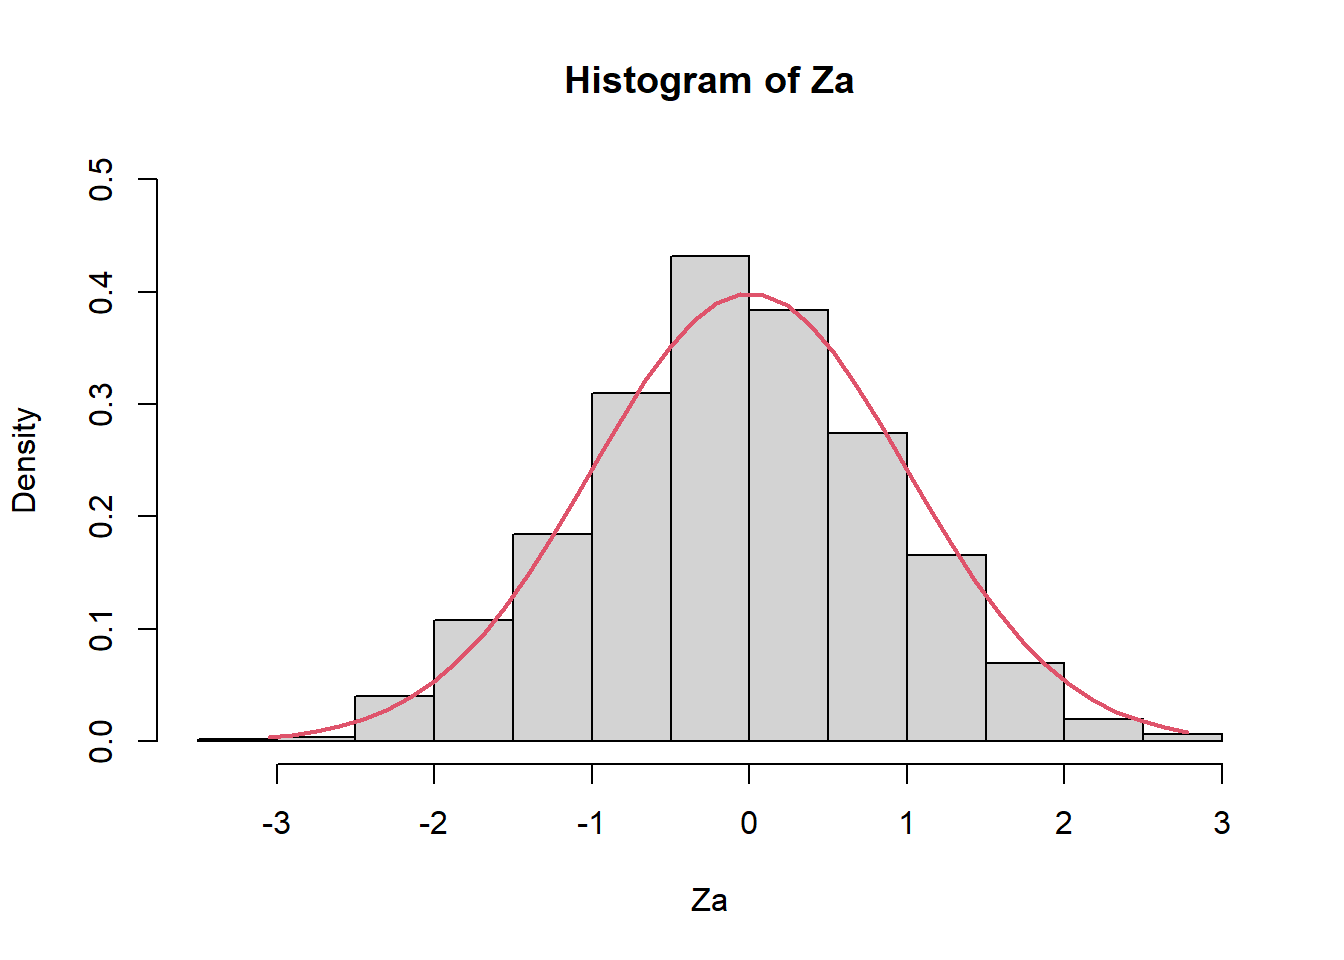
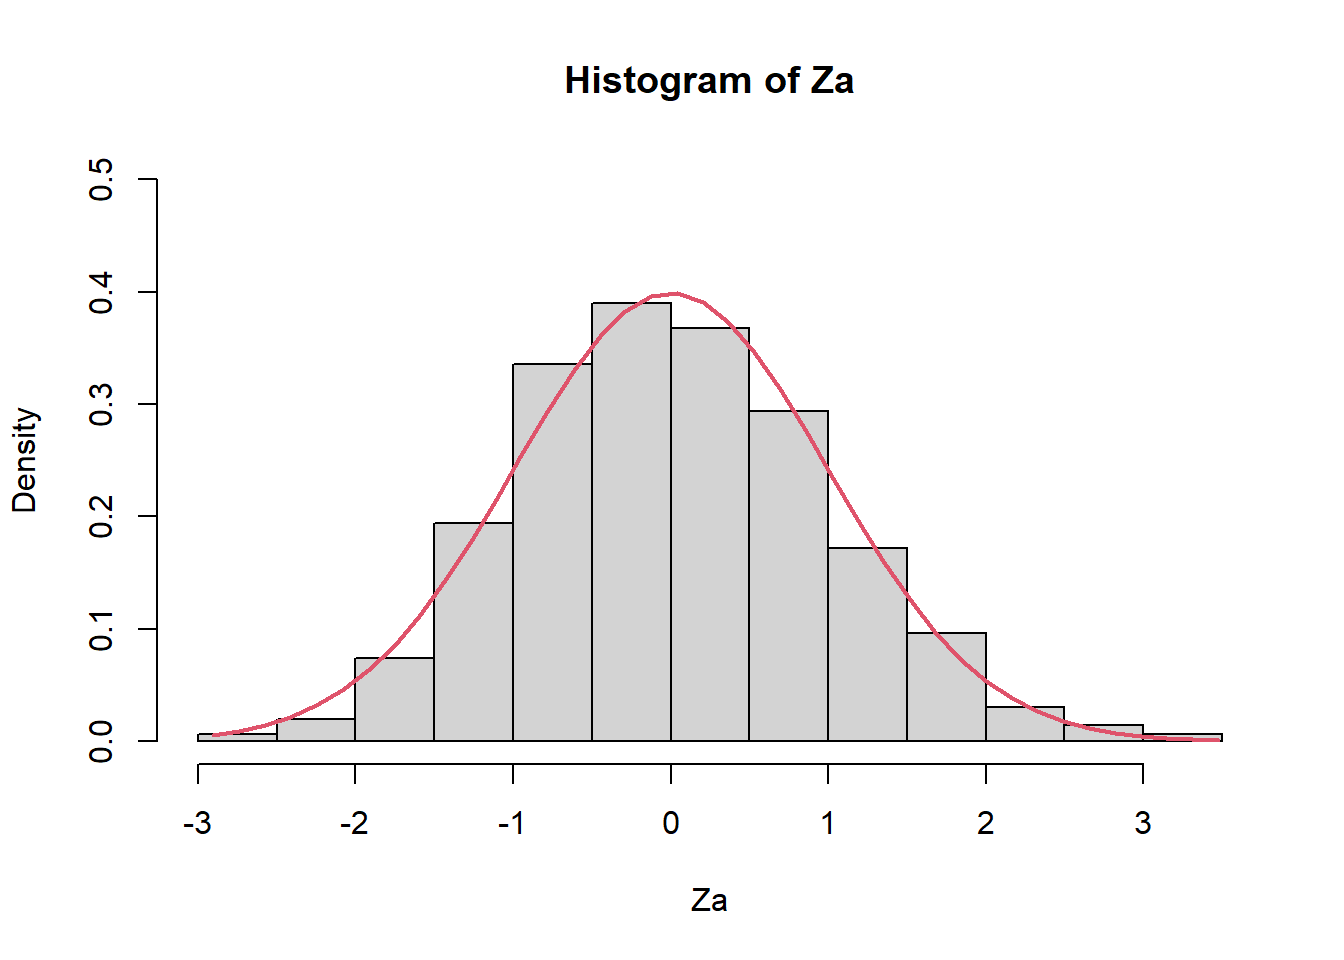
lab2

diff --git a/lab02.html b/lab02.html
@@ -355,11 +355,11 @@ window.Quarto = {
 </div>
 <div class="sourceCode cell-code" id="cb3"><pre class="sourceCode r code-with-copy"><code class="sourceCode r"><span id="cb3-1"><a href="#cb3-1" aria-hidden="true" tabindex="-1"></a><span class="fu">mean</span>(media_X)</span></code><button title="Copiar al portapapeles" class="code-copy-button"><i class="bi"></i></button></pre></div>
 <div class="cell-output cell-output-stdout">
-<pre><code>[1] 0.5060474</code></pre>
+<pre><code>[1] 0.5032173</code></pre>
 </div>
 <div class="sourceCode cell-code" id="cb5"><pre class="sourceCode r code-with-copy"><code class="sourceCode r"><span id="cb5-1"><a href="#cb5-1" aria-hidden="true" tabindex="-1"></a><span class="fu">var</span>(media_X)</span></code><button title="Copiar al portapapeles" class="code-copy-button"><i class="bi"></i></button></pre></div>
 <div class="cell-output cell-output-stdout">
-<pre><code>[1] 0.01203256</code></pre>
+<pre><code>[1] 0.01344664</code></pre>
 </div>
 </div>
 <p>Observe que teóricamente <span class="math inline">\(E(\bar{X})=0.5\)</span> y <span class="math inline">\(Var(\bar{X})=\frac{\beta^2}{n}=\frac{0.5^2}{20}=0.0125\)</span>. El TLC nos garantiza que <span class="math display">\[Z=\frac{\bar{X}-\mu}{\sigma/\sqrt{n}} \overset{d}{\rightarrow} N(0,1).\]</span> Es decir, <span class="math inline">\(Z\)</span> se aproxima cada vez a la normal estándar cuando <span class="math inline">\(n\rightarrow \infty\)</span>. Por ejemplo, con solo <span class="math inline">\(n=20\)</span>, tenemos</p>
@@ -377,11 +377,11 @@ window.Quarto = {
 </div>
 <div class="sourceCode cell-code" id="cb8"><pre class="sourceCode r code-with-copy"><code class="sourceCode r"><span id="cb8-1"><a href="#cb8-1" aria-hidden="true" tabindex="-1"></a><span class="fu">mean</span>(Z)</span></code><button title="Copiar al portapapeles" class="code-copy-button"><i class="bi"></i></button></pre></div>
 <div class="cell-output cell-output-stdout">
-<pre><code>[1] 0.05408972</code></pre>
+<pre><code>[1] 0.02877676</code></pre>
 </div>
 <div class="sourceCode cell-code" id="cb10"><pre class="sourceCode r code-with-copy"><code class="sourceCode r"><span id="cb10-1"><a href="#cb10-1" aria-hidden="true" tabindex="-1"></a><span class="fu">var</span>(Z)</span></code><button title="Copiar al portapapeles" class="code-copy-button"><i class="bi"></i></button></pre></div>
 <div class="cell-output cell-output-stdout">
-<pre><code>[1] 0.9626045</code></pre>
+<pre><code>[1] 1.075731</code></pre>
 </div>
 </div>
 <p>De la misma forma, puedo calcular</p>
@@ -403,11 +403,11 @@ Z_a=n^{\frac{1}{2}}(\bar{X}-\mu) \overset{d}{\rightarrow} N(0,\sigma^2)
 </div>
 <div class="sourceCode cell-code" id="cb13"><pre class="sourceCode r code-with-copy"><code class="sourceCode r"><span id="cb13-1"><a href="#cb13-1" aria-hidden="true" tabindex="-1"></a><span class="fu">mean</span>(Za)</span></code><button title="Copiar al portapapeles" class="code-copy-button"><i class="bi"></i></button></pre></div>
 <div class="cell-output cell-output-stdout">
-<pre><code>[1] 0.02704486</code></pre>
+<pre><code>[1] 0.01438838</code></pre>
 </div>
 <div class="sourceCode cell-code" id="cb15"><pre class="sourceCode r code-with-copy"><code class="sourceCode r"><span id="cb15-1"><a href="#cb15-1" aria-hidden="true" tabindex="-1"></a><span class="fu">var</span>(Za)</span></code><button title="Copiar al portapapeles" class="code-copy-button"><i class="bi"></i></button></pre></div>
 <div class="cell-output cell-output-stdout">
-<pre><code>[1] 0.2406511</code></pre>
+<pre><code>[1] 0.2689328</code></pre>
 </div>
 </div>
 </section>
@@ -418,12 +418,12 @@ Z_a=n^{\frac{1}{2}}(\bar{X}-\mu) \overset{d}{\rightarrow} N(0,\sigma^2)
 <span id="cb17-2"><a href="#cb17-2" aria-hidden="true" tabindex="-1"></a><span class="fu">head</span>(<span class="fu">cbind</span>(media_X,inv_media_X))</span></code><button title="Copiar al portapapeles" class="code-copy-button"><i class="bi"></i></button></pre></div>
 <div class="cell-output cell-output-stdout">
 <pre><code>       media_X inv_media_X
-[1,] 0.6659094    1.501706
-[2,] 0.4576343    2.185151
-[3,] 0.4692628    2.131002
-[4,] 0.4596611    2.175516
-[5,] 0.3846754    2.599594
-[6,] 0.5363461    1.864468</code></pre>
+[1,] 0.4080875    2.450455
+[2,] 0.3615462    2.765899
+[3,] 0.6953105    1.438206
+[4,] 0.3396940    2.943826
+[5,] 0.4805779    2.080828
+[6,] 0.4995975    2.001611</code></pre>
 </div>
 <div class="sourceCode cell-code" id="cb19"><pre class="sourceCode r code-with-copy"><code class="sourceCode r"><span id="cb19-1"><a href="#cb19-1" aria-hidden="true" tabindex="-1"></a><span class="fu">hist</span>(inv_media_X)</span></code><button title="Copiar al portapapeles" class="code-copy-button"><i class="bi"></i></button></pre></div>
 <div class="cell-output-display">
@@ -435,11 +435,11 @@ Z_a=n^{\frac{1}{2}}(\bar{X}-\mu) \overset{d}{\rightarrow} N(0,\sigma^2)
 </div>
 <div class="sourceCode cell-code" id="cb20"><pre class="sourceCode r code-with-copy"><code class="sourceCode r"><span id="cb20-1"><a href="#cb20-1" aria-hidden="true" tabindex="-1"></a><span class="fu">mean</span>(media_X)</span></code><button title="Copiar al portapapeles" class="code-copy-button"><i class="bi"></i></button></pre></div>
 <div class="cell-output cell-output-stdout">
-<pre><code>[1] 0.5060474</code></pre>
+<pre><code>[1] 0.5032173</code></pre>
 </div>
 <div class="sourceCode cell-code" id="cb22"><pre class="sourceCode r code-with-copy"><code class="sourceCode r"><span id="cb22-1"><a href="#cb22-1" aria-hidden="true" tabindex="-1"></a><span class="fu">var</span>(media_X)</span></code><button title="Copiar al portapapeles" class="code-copy-button"><i class="bi"></i></button></pre></div>
 <div class="cell-output cell-output-stdout">
-<pre><code>[1] 0.01203256</code></pre>
+<pre><code>[1] 0.01344664</code></pre>
 </div>
 </div>
 <p>Usando el resultado con el Método Delta (diapositiva 11 de la clase 8).</p>
@@ -458,11 +458,11 @@ Z_a=n^{\frac{1}{2}}(\bar{X}-\mu) \overset{d}{\rightarrow} N(0,\sigma^2)
 </div>
 <div class="sourceCode cell-code" id="cb25"><pre class="sourceCode r code-with-copy"><code class="sourceCode r"><span id="cb25-1"><a href="#cb25-1" aria-hidden="true" tabindex="-1"></a><span class="fu">mean</span>(Za)</span></code><button title="Copiar al portapapeles" class="code-copy-button"><i class="bi"></i></button></pre></div>
 <div class="cell-output cell-output-stdout">
-<pre><code>[1] 0.3187371</code></pre>
+<pre><code>[1] 0.4256119</code></pre>
 </div>
 <div class="sourceCode cell-code" id="cb27"><pre class="sourceCode r code-with-copy"><code class="sourceCode r"><span id="cb27-1"><a href="#cb27-1" aria-hidden="true" tabindex="-1"></a><span class="fu">var</span>(Za)</span></code><button title="Copiar al portapapeles" class="code-copy-button"><i class="bi"></i></button></pre></div>
 <div class="cell-output cell-output-stdout">
-<pre><code>[1] 4.256698</code></pre>
+<pre><code>[1] 4.906116</code></pre>
 </div>
 </div>
 </section>
@@ -492,11 +492,11 @@ Z_a=n^{\frac{1}{2}}(\bar{X}-\mu) \overset{d}{\rightarrow} N(0,\sigma^2)
 </div>
 <div class="sourceCode cell-code" id="cb31"><pre class="sourceCode r code-with-copy"><code class="sourceCode r"><span id="cb31-1"><a href="#cb31-1" aria-hidden="true" tabindex="-1"></a><span class="fu">mean</span>(Za)</span></code><button title="Copiar al portapapeles" class="code-copy-button"><i class="bi"></i></button></pre></div>
 <div class="cell-output cell-output-stdout">
-<pre><code>[1] 0.1711034</code></pre>
+<pre><code>[1] 0.1282568</code></pre>
 </div>
 <div class="sourceCode cell-code" id="cb33"><pre class="sourceCode r code-with-copy"><code class="sourceCode r"><span id="cb33-1"><a href="#cb33-1" aria-hidden="true" tabindex="-1"></a><span class="fu">var</span>(Za)</span></code><button title="Copiar al portapapeles" class="code-copy-button"><i class="bi"></i></button></pre></div>
 <div class="cell-output cell-output-stdout">
-<pre><code>[1] 4.303778</code></pre>
+<pre><code>[1] 4.219342</code></pre>
 </div>
 </div>
 </section>
@@ -526,11 +526,11 @@ Z_a=n^{\frac{1}{2}}(\bar{X}-\mu) \overset{d}{\rightarrow} N(0,\sigma^2)
 </div>
 <div class="sourceCode cell-code" id="cb37"><pre class="sourceCode r code-with-copy"><code class="sourceCode r"><span id="cb37-1"><a href="#cb37-1" aria-hidden="true" tabindex="-1"></a><span class="fu">mean</span>(Za)</span></code><button title="Copiar al portapapeles" class="code-copy-button"><i class="bi"></i></button></pre></div>
 <div class="cell-output cell-output-stdout">
-<pre><code>[1] 0.113894</code></pre>
+<pre><code>[1] 0.1638005</code></pre>
 </div>
 <div class="sourceCode cell-code" id="cb39"><pre class="sourceCode r code-with-copy"><code class="sourceCode r"><span id="cb39-1"><a href="#cb39-1" aria-hidden="true" tabindex="-1"></a><span class="fu">var</span>(Za)</span></code><button title="Copiar al portapapeles" class="code-copy-button"><i class="bi"></i></button></pre></div>
 <div class="cell-output cell-output-stdout">
-<pre><code>[1] 3.942703</code></pre>
+<pre><code>[1] 4.029942</code></pre>
 </div>
 </div>
 </section>
@@ -566,11 +566,11 @@ Z_a=n^{\frac{1}{2}}(\bar{X}-\mu) \overset{d}{\rightarrow} N(0,\sigma^2)
 </div>
 <div class="sourceCode cell-code" id="cb43"><pre class="sourceCode r code-with-copy"><code class="sourceCode r"><span id="cb43-1"><a href="#cb43-1" aria-hidden="true" tabindex="-1"></a><span class="fu">mean</span>(sd_MV_X)</span></code><button title="Copiar al portapapeles" class="code-copy-button"><i class="bi"></i></button></pre></div>
 <div class="cell-output cell-output-stdout">
-<pre><code>[1] 1.397972</code></pre>
+<pre><code>[1] 1.418476</code></pre>
 </div>
 <div class="sourceCode cell-code" id="cb45"><pre class="sourceCode r code-with-copy"><code class="sourceCode r"><span id="cb45-1"><a href="#cb45-1" aria-hidden="true" tabindex="-1"></a><span class="fu">var</span>(sd_MV_X)</span></code><button title="Copiar al portapapeles" class="code-copy-button"><i class="bi"></i></button></pre></div>
 <div class="cell-output cell-output-stdout">
-<pre><code>[1] 0.03036017</code></pre>
+<pre><code>[1] 0.0322945</code></pre>
 </div>
 </div>
 <p>Sabemos que para muestras grandes, la distirbución de <span class="math inline">\(\hat{\sigma}\)</span> converge a una distirbución normal con media <span class="math inline">\(\sigma=\sqrt{2} \approx 1.41\)</span> y variancia <span class="math inline">\(1/[I(\sigma)]=\left(\frac{2n}{ \sigma^2}\right)^{-1}=\left( \frac{2 \cdot 30}{2} \right)^{-1} =1/30\approx 0.0334\)</span>.</p>
@@ -590,11 +590,11 @@ Z_a=n^{\frac{1}{2}}(\bar{X}-\mu) \overset{d}{\rightarrow} N(0,\sigma^2)
 </div>
 <div class="sourceCode cell-code" id="cb48"><pre class="sourceCode r code-with-copy"><code class="sourceCode r"><span id="cb48-1"><a href="#cb48-1" aria-hidden="true" tabindex="-1"></a><span class="fu">mean</span>(Za)</span></code><button title="Copiar al portapapeles" class="code-copy-button"><i class="bi"></i></button></pre></div>
 <div class="cell-output cell-output-stdout">
-<pre><code>[1] -0.08895599</code></pre>
+<pre><code>[1] 0.02334704</code></pre>
 </div>
 <div class="sourceCode cell-code" id="cb50"><pre class="sourceCode r code-with-copy"><code class="sourceCode r"><span id="cb50-1"><a href="#cb50-1" aria-hidden="true" tabindex="-1"></a><span class="fu">var</span>(Za)</span></code><button title="Copiar al portapapeles" class="code-copy-button"><i class="bi"></i></button></pre></div>
 <div class="cell-output cell-output-stdout">
-<pre><code>[1] 0.9108052</code></pre>
+<pre><code>[1] 0.968835</code></pre>
 </div>
 </div>
 <section id="visualización-variando-n" class="level2" data-number="2.1">
@@ -606,13 +606,13 @@ Z_a=n^{\frac{1}{2}}(\bar{X}-\mu) \overset{d}{\rightarrow} N(0,\sigma^2)
 <span id="cb52-4"><a href="#cb52-4" aria-hidden="true" tabindex="-1"></a>sd_MV_X <span class="ot">&lt;-</span> <span class="fu">list</span>()</span>
 <span id="cb52-5"><a href="#cb52-5" aria-hidden="true" tabindex="-1"></a><span class="cf">for</span>(n <span class="cf">in</span> <span class="dv">1</span><span class="sc">:</span><span class="fu">length</span>(N)){</span>
 <span id="cb52-6"><a href="#cb52-6" aria-hidden="true" tabindex="-1"></a>  <span class="cf">for</span>(i <span class="cf">in</span> <span class="dv">1</span><span class="sc">:</span>K){</span>
-<span id="cb52-7"><a href="#cb52-7" aria-hidden="true" tabindex="-1"></a>    x <span class="ot">&lt;-</span> <span class="fu">rnorm</span>(<span class="at">n=</span>N[n],<span class="at">mean=</span><span class="dv">10</span>,<span class="at">sd=</span><span class="fu">sqrt</span>(<span class="dv">2</span>)) </span>
+<span id="cb52-7"><a href="#cb52-7" aria-hidden="true" tabindex="-1"></a>    x <span class="ot">&lt;-</span> <span class="fu">rnorm</span>(<span class="at">n=</span>N[n],<span class="at">mean=</span><span class="dv">0</span>,<span class="at">sd=</span><span class="fu">sqrt</span>(<span class="dv">2</span>)) </span>
 <span id="cb52-8"><a href="#cb52-8" aria-hidden="true" tabindex="-1"></a>    sd_MV_X[i] <span class="ot">&lt;-</span> <span class="fu">sd_MV</span>(x)</span>
 <span id="cb52-9"><a href="#cb52-9" aria-hidden="true" tabindex="-1"></a>  }</span>
 <span id="cb52-10"><a href="#cb52-10" aria-hidden="true" tabindex="-1"></a>  sd_MV_X <span class="ot">&lt;-</span> <span class="fu">unlist</span>(sd_MV_X)</span>
 <span id="cb52-11"><a href="#cb52-11" aria-hidden="true" tabindex="-1"></a>  </span>
 <span id="cb52-12"><a href="#cb52-12" aria-hidden="true" tabindex="-1"></a>  Za <span class="ot">=</span> <span class="fu">sqrt</span>(<span class="dv">2</span><span class="sc">*</span>N[n]<span class="sc">/</span><span class="dv">2</span>)<span class="sc">*</span>(sd_MV_X<span class="sc">-</span><span class="fu">sqrt</span>(<span class="dv">2</span>))</span>
-<span id="cb52-13"><a href="#cb52-13" aria-hidden="true" tabindex="-1"></a>    sd_MV_estimador[[n]]<span class="ot">=</span> <span class="fu">data.frame</span>(Za,<span class="at">n=</span>N[n])</span>
+<span id="cb52-13"><a href="#cb52-13" aria-hidden="true" tabindex="-1"></a>  sd_MV_estimador[[n]] <span class="ot">=</span> <span class="fu">data.frame</span>(Za,<span class="at">n=</span>N[n])</span>
 <span id="cb52-14"><a href="#cb52-14" aria-hidden="true" tabindex="-1"></a>}</span>
 <span id="cb52-15"><a href="#cb52-15" aria-hidden="true" tabindex="-1"></a></span>
 <span id="cb52-16"><a href="#cb52-16" aria-hidden="true" tabindex="-1"></a>resultados <span class="ot">=</span> rlist<span class="sc">::</span><span class="fu">list.rbind</span>(sd_MV_estimador)</span>
